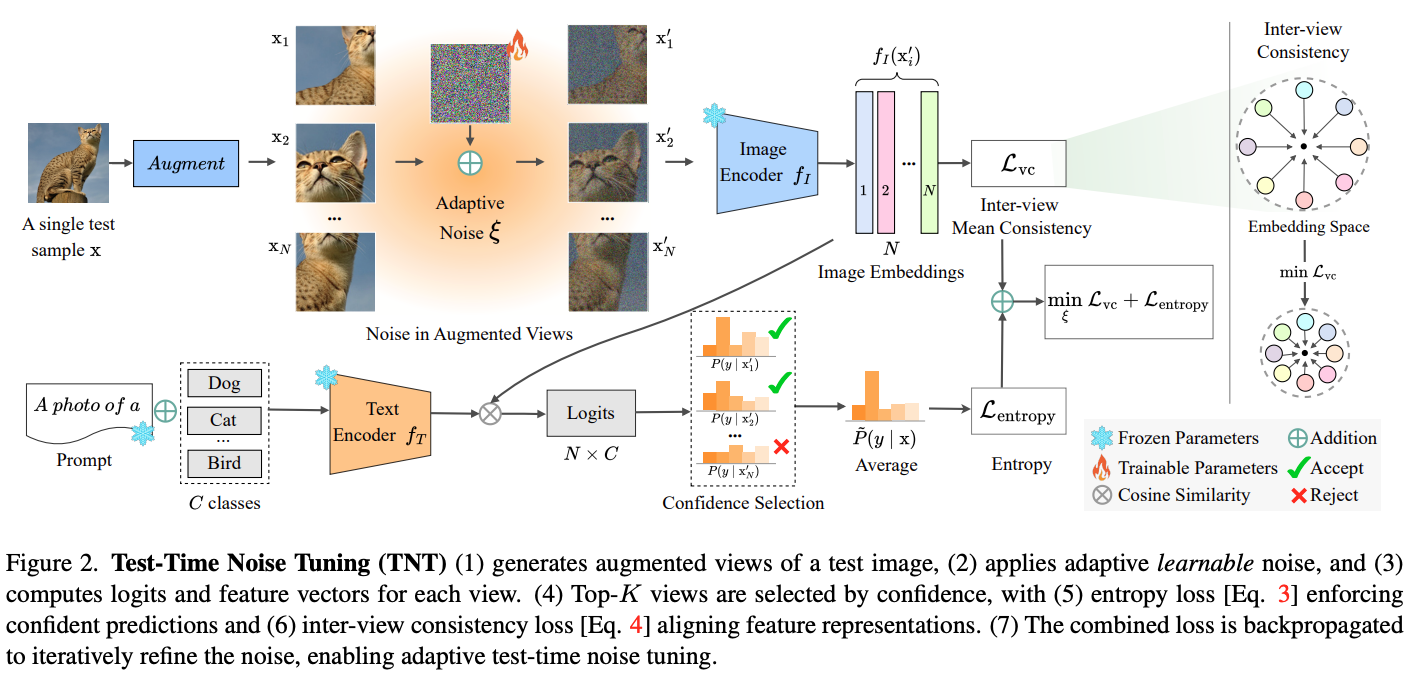
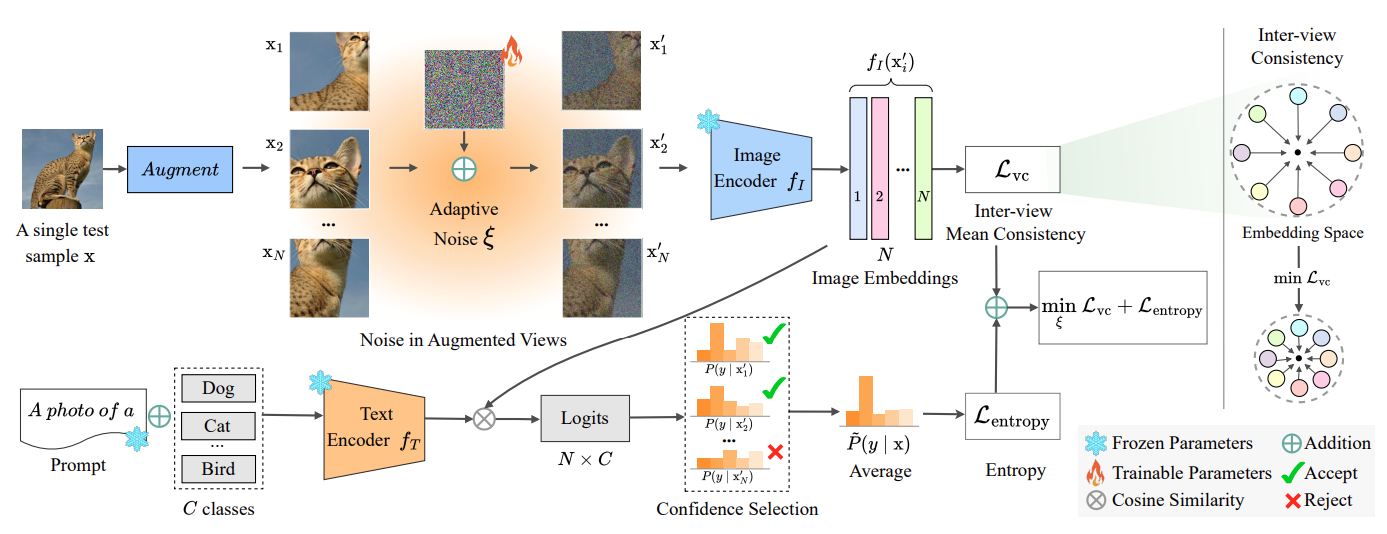
Latest Updated

diff --git a/README.md b/README.md
@@ -1,5 +1,6 @@
 ### Noise is an efficient learner for zero-shot vision-language models (TNT) (ICCVxCLVL 2025)
 [Raza Imam](https://razaimam45.github.io/), Asif Hanif, Jian Zhang, Khaled Waleed Dawoud, Yova Kementchedjhieva, Mohammad Yaqub
+
 Mohamed Bin Zayed University of Artificial Intelligence
 
 [![paper](https://img.shields.io/badge/arXiv-Paper-<COLOR>.svg)](https://arxiv.org/abs/2502.06019)
@@ -9,11 +10,14 @@ This repository provides the official PyTorch implementation of our TNT paper:
 > Noise is an efficient learner for zero-shot vision-language models      
 > Authors: *Raza Imam, Asif Hanif, Jian Zhang, Khaled Waleed Dawoud, Yova Kementchedjhieva, Mohammad Yaqub*  
 
-<p align = "center">
+<p align = "justified">
 <img src = "utils/Method.png">
 </p>
-<p align = "center">
-Working of our Noise Adaptation Method: TNT.
+<p align = "justified">
+Test-Time Noise Tuning (TNT) (1) generates augmented views of a test image, (2) applies adaptive learnable noise, and (3)
+computes logits and feature vectors for each view. (4) Top-K views are selected by confidence, with (5) entropy loss [Eq. 3] enforcing
+confident predictions and (6) inter-view consistency loss aligning feature representations. (7) The combined loss is backpropagated
+to iteratively refine the noise, enabling adaptive test-time noise tuning.
 </p>
 
 For more details, please check out our [<ins>**paper**</ins>](https://arxiv.org/abs/2502.06019). 
@@ -98,7 +102,7 @@ python tnt.py \
 
 ### Main results (ViT-B/16)
 #### Quantitative Results
-<div align="center">
+<div align="justified">
 
 | Setting | CLIP | TNT* | TNT |
 |---|---|---|---|
@@ -112,18 +116,29 @@ python tnt.py \
 
 #### Qualitative Results
 
-<p align = "center">
+<p align = "justified">
 <img src = "utils/TSNE.png">
 </p>
-<p align = "center">
+<p align = "justified">
+t-SNE visualizations of the final class embedding from
+the test sets of ImageNet-A dataset, following Table 1. TNT could
+produce more clustered and separable features than other zeroshot generalization baselines.
 </p>
 
 #### Computation Results
 
-<p align = "center">
+<p align = "justified">
 <img src = "utils/Compute.png">
 </p>
-<p align = "center">
+<p align = "justified">
+Analysis of Trainable Parameters (TP) for TNT, textual tuning, and encoder tuning. Circle size indicates the #TP. Textual Tuning methods use the same TP count of 2K to optimize
+prompts. RLCF*
+refers to RLCF with all visual encoder parameters trainable, Layer Norm limits trainable parameters of visual
+encoder to only Layer Norms, and Visual Prompt applies learnable
+prompts to the visual encoder across 12 layers of the ViT encoder.
+TNT‡ indicates TNT with only 224×9 trainable noise parameters,
+compared to standard TNT with 224 × 224 × 3 TP. Noise denotes
+optimization with 224 × 9 TP in noise and with only L_entropy loss.
 </p>
 
 
